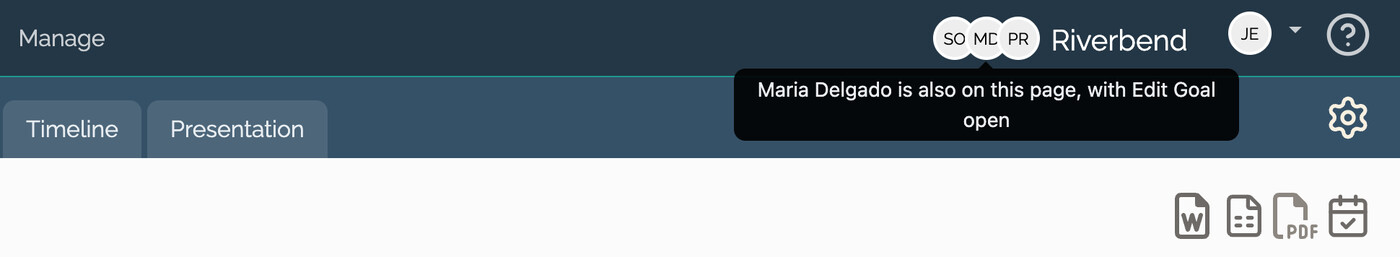
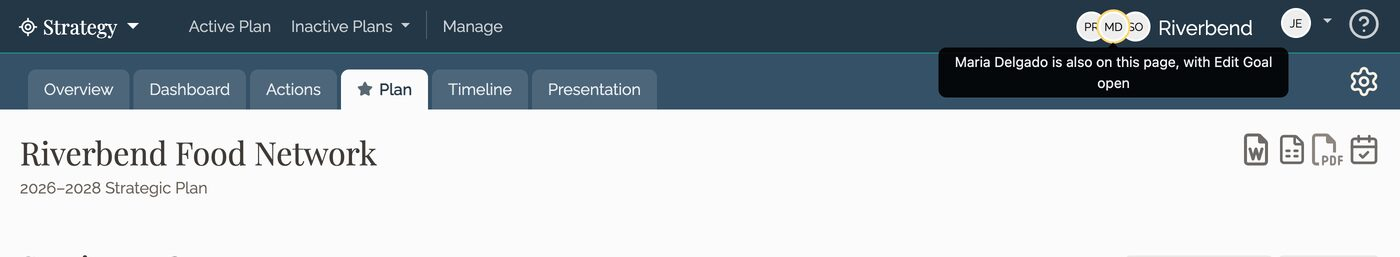
Retake two screenshots; keep unconfirmed names out of the Thanksgiving post
- Members shot shows the role's initials as "FC" and the presence shot shows
  the editing ring (both fixed in the app, pending deploy).
- Thanksgiving post: the two longest-standing customers stay unnamed until
  they say yes; SBDCs described as networks and service centers, not by name.
- Live post: no thin strip as the share image. Documents post: notes show a
  preview line.

diff --git a/src/_posts/2026-11-26-a-thanksgiving-thank-you.md b/src/_posts/2026-11-26-a-thanksgiving-thank-you.md
@@ -31,13 +31,13 @@ As of this month, 87 organizations pay for Causey. Here's how long they've been 
 - 22, about one in four, have been with us for five years or more.
 - 15 have been with us for ten years or more, since long before we were called Causey.
 
-Our longest-standing customer is Good Shepherd Gracenter, which started with us in April 2015, about eleven and a half years ago. Migrant Clinicians Network reaches ten years next week, on December 1.
+Our longest-standing customer started with us in April 2015, about eleven and a half years ago. Another reaches ten years next week, on December 1.
 
-Most of our ten-year group are Small Business Development Centers that joined in 2016: North Texas SBDC that March, Central California SBDC in April, and then, over the rest of that year, the CSU Bakersfield, Cal Poly CIE, Central Coast, Valley Sierra, Valley Community, La Verne, LA Regional Network, EDC-Ventura County, Long Beach City College, El Camino College and PCR Business Finance SBDCs. Community Food Initiatives joined that same April.
+Most of that ten-year group are Small Business Development Centers, who have been with us since 2016. Today we work with eight SBDC networks in five states, which together run about 80 service centers helping small businesses start and grow.
 
 And some newer relationships have grown in ways I'm proud of. Thrive Alliance has been with us since 2021, and now leads one of the [two nonprofit cohorts we welcomed in October](/welcome-to-causey-celebrating-two-new-nonprofit-cohorts/).
 
-Each of those years meant choosing Causey again. I don't take that for granted. Thank you for trusting us with your plans, for telling us when something wasn't working, and for the patience you've shown while we improved it.
+Staying with a tool that long is a choice, and I don't take it for granted. Thank you for trusting us with your plans, for telling us when something wasn't working, and for the patience you've shown while we improved it.
 
 ## **A Season to Slow Down**
 

diff --git a/src/_posts/2026-12-04-a-new-documents-page.md b/src/_posts/2026-12-04-a-new-documents-page.md
@@ -47,7 +47,7 @@ To file a document, drag it onto a folder. To move it up a level, drag it onto a
 
 ## **Easier to Scan**
 
-Each document is now a single line: an icon tinted by type, then the name, when it was added and updated, and its size. PDFs are red, Word files blue, PowerPoint orange, spreadsheets green, links teal, notes gray and folders brown, so you can spot the file you want before you read a word.
+Each document now gets one row: an icon tinted by type, then the name, when it was added and updated, and its size. Notes also show their first line under the name. PDFs are red, Word files blue, PowerPoint orange, spreadsheets green, links teal, notes gray and folders brown, so you can spot the file you want before you read a word.
 
 ![A folder open in the Documents panel, with its breadcrumb and one-line rows whose icons are tinted by file type](/uploads/documents-folder-breadcrumb.jpg){: width="1400" height="720"}
 

diff --git a/src/_posts/2026-11-30-working-on-your-plan-together-live.md b/src/_posts/2026-11-30-working-on-your-plan-together-live.md
@@ -11,7 +11,7 @@ SEO_options:
   description: >-
     Causey now shows who else has a page of your plan open, and updates plan
     and metrics pages in place when a teammate makes a change.
-  image: /uploads/live-presence-tooltip.jpg
+  image:
   prevent_indexing: false
 blurb: >-
   Causey now shows who else is on the page with you, and your plan and metrics
